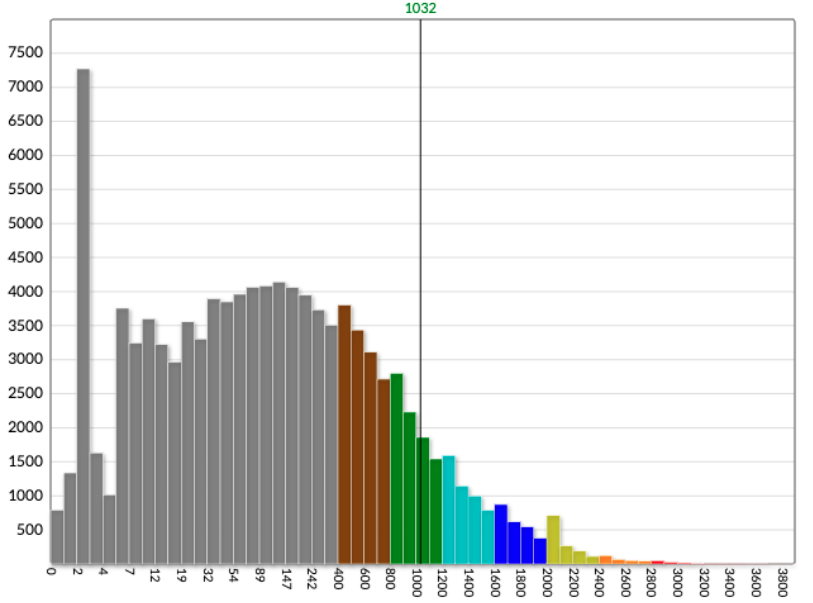
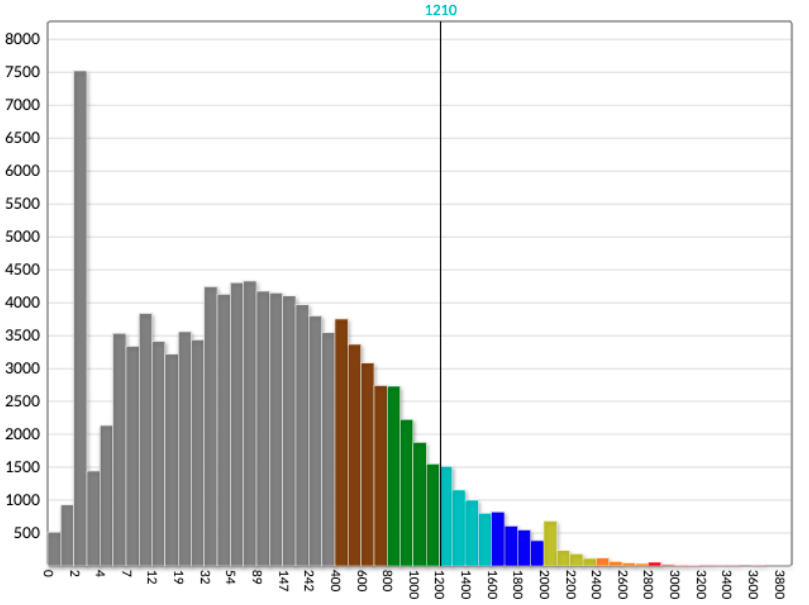
[update] 画像とレートの更新

Changed region(s): [[0.0, 0.0, 0.9889, 0.9851], [0.7726, 0.9254, 0.8344, 0.9552], [0.6799, 0.8358, 0.7108, 0.8657]]

diff --git a/src/components/Experience/Experience.tsx b/src/components/Experience/Experience.tsx
@@ -34,7 +34,7 @@ export const ExperienceKyopro = () => {
       <ExperienceText>
         競技プログラミングは、様々なデータやそれに対する操作をコンピュータ上で効率的に行うための知識や能力を競う大会です。
         そのうち、日本で最も人気のあるAtCoderというコンテストサイトに大学1年生の時から継続的に参加しており、
-        現在のレーティングは<SpanColor color="green">緑色</SpanColor>（登録者のうち上位30%に当たる）です。
+        現在のレーティングは<SpanColor color="#00C0C0">水色</SpanColor>（登録者のうち上位15%に当たる）です。
         現在も、コンテストを通じてアルゴリズムやデータ構造といった、コーディングをする上での重要な考え方を学んでいます。
       </ExperienceText>
       <ExperienceGrid>
